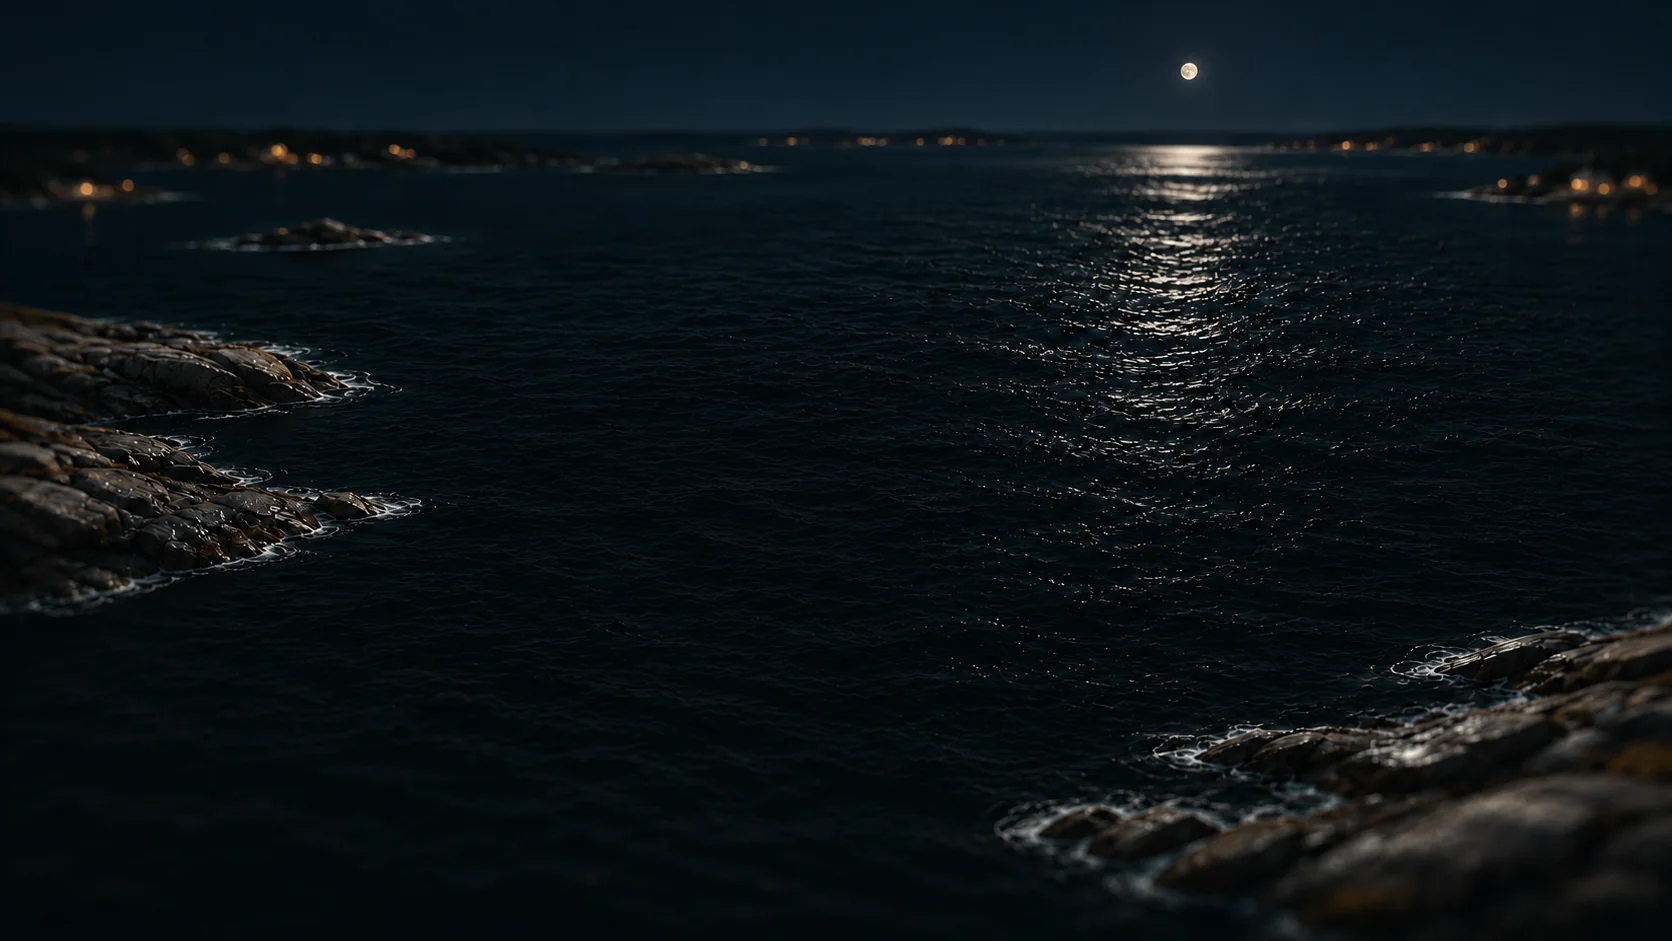
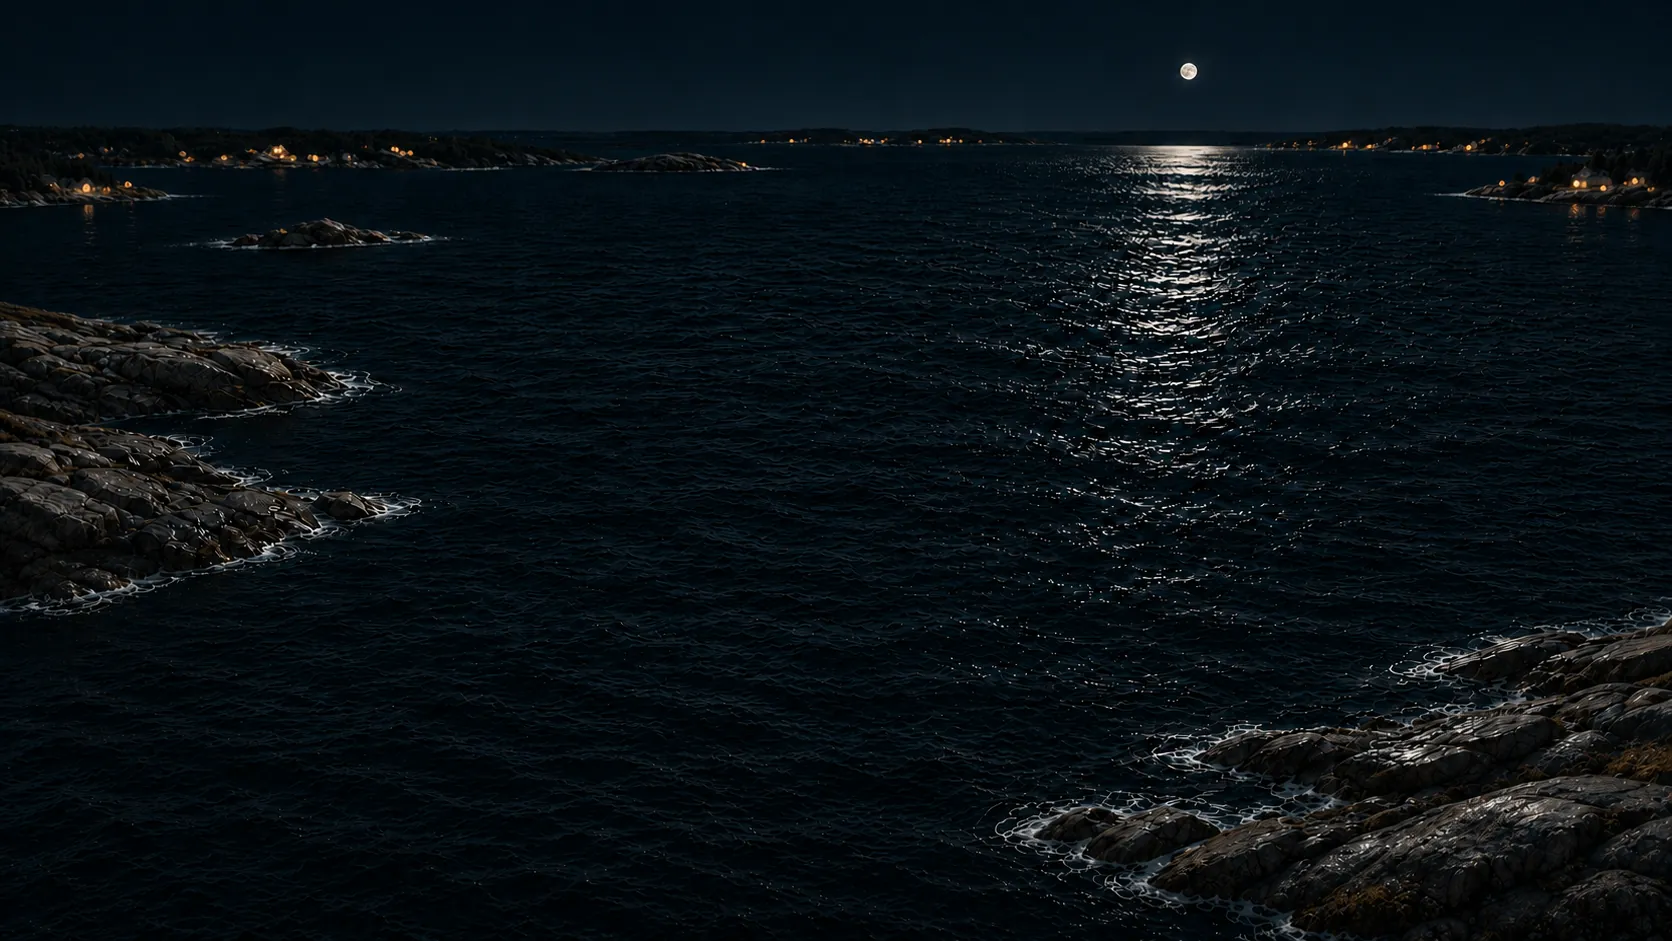
Zoomed out, the open water is the live moving 3D water and the whole picture racks focus live like the moor

diff --git a/bay.js b/bay.js
@@ -68,13 +68,15 @@ function makeWater(renderer, scene, sky, res) {
   const mat = new THREE.ShaderMaterial({
     uniforms, fog: true, side: THREE.DoubleSide, transparent: true, depthWrite: false,
     vertexShader: /* glsl */`
-      uniform mat4 textureMatrix; uniform float time;
+      uniform mat4 textureMatrix; uniform float time, sceneZoom;
       uniform vec4 swell[4]; uniform vec2 swellMotion[4];
       varying vec4 mirrorCoord; varying vec3 wp, swellNormal;
       #include <common>
       #include <fog_pars_vertex>
       void main() {
-        vec4 w = modelMatrix * vec4(position, 1.0);
+        float edge = clamp(max(abs(position.x), abs(position.y)) / 256.0, 0.0, 1.0);
+        float reach = 1.0 + (1.0 - sceneZoom) * 7.0 * pow(edge, 4.0);
+        vec4 w = modelMatrix * vec4(position.xy * reach, position.z, 1.0);
         vec2 baseXZ = w.xz;
         vec3 tx = vec3(1.0, 0.0, 0.0), tz = vec3(0.0, 0.0, 1.0);
         for (int i = 0; i < 4; i++) {
@@ -150,9 +152,16 @@ function makeWater(renderer, scene, sky, res) {
           float crestNoise = smoothstep(.34, .68, vnoise(wp.xz * vec2(2.7, 6.1) + vec2(time * .16, -time * .24)));
           float sideFade = exp(-pow((screenUv.x - .52) / .40, 2.0));
           float fineCrest = smoothstep(.45, .70, vnoise(wp.xz * vec2(5.0, 8.0) + vec2(time * .12, -time * .18)));
+          float crinkle = sin(wp.x * 2.7 + wp.z * 5.1 - time * 1.2
+                          + 2.0 * vnoise(wp.xz * vec2(.8, 1.2) + vec2(time * .08, 0.0)));
+          float littleCrests = pow(max(crinkle, 0.0), 10.0)
+                             * smoothstep(.25, .68, vnoise(wp.xz * vec2(2.2, 3.7) - vec2(0.0, time * .17)));
           float swellSheen = longCrest * fineCrest * sideFade * smoothstep(.30, .75, screenUv.y);
           float lowerSheen = pow(1.0 - screenUv.y, 1.2) * exp(-pow((screenUv.x - .20) / .65, 2.0));
-          vec3 col = waterColor + vec3(.002, .003, .004) * (1.0 - sceneZoom) * (1.0 - smoothstep(.35, .65, screenUv.y))
+          vec3 col = waterColor + (vec3(.001, .002, .003) + vec3(.006, .009, .011) * smoothstep(.25, .75, screenUv.y)
+                   - vec3(.003, .003, .003) * (1.0 - smoothstep(.30, .60, screenUv.y))) * (1.0 - sceneZoom)
+                   + vec3(.006, .007, .008) * fineCrest * (1.0 - sceneZoom)
+                   + vec3(.042, .048, .052) * littleCrests * (1.0 - sceneZoom)
                    + vec3(.0060, .0080, .0080) * (1.0 - step(.1, moonDive))
                    + vec3(.006, .007, .008) * longCrest * (1.0 - .65 * lowerSheen)
                    + vec3(.012, .012, .012) * swellSheen
@@ -198,9 +207,9 @@ function makeWater(renderer, scene, sky, res) {
           }
           col += warmTint * mix(warmWide, warmClose, sceneZoom);
           // Moonlight breaks into irregular soft flecks along moving crests.
-          float upper = smoothstep(.16, .52, screenUv.y);
-          float width = mix(.025, .070, smoothstep(.30, 1.0, screenUv.y));
-          float centre = mix(.69, mix(.50, .54, smoothstep(.30, 1.0, screenUv.y)), sceneZoom);
+          float upper = mix(smoothstep(.10, .45, screenUv.y), smoothstep(.16, .52, screenUv.y), sceneZoom);
+          float width = mix(mix(.070, .055, smoothstep(.30, 1.0, screenUv.y)), mix(.025, .070, smoothstep(.30, 1.0, screenUv.y)), sceneZoom);
+          float centre = mix(.705, mix(.50, .54, smoothstep(.30, 1.0, screenUv.y)), sceneZoom);
           float lane = exp(-pow((screenUv.x - centre) / width, 2.0));
           vec2 fp = mat2(.8, -.6, .6, .8) * wp.xz * vec2(6.0, 3.8);
           float facets = vnoise(fp + vec2(time * .9, -time * .6))
@@ -245,8 +254,17 @@ function makeWater(renderer, scene, sky, res) {
                         * (1.0 - smoothstep(.63, .83, screenUv.y)) * surfaceReflect;
           float moonStop = mix(1.0, smoothstep(lampScreen.y - .02, lampScreen.y + .14, screenUv.y),
                                smoothstep(.20, .60, tallScreen) * (1.0 - moonDive));
-          float zoomMoon = mix(.55, 1.0, sceneZoom);
+          float zoomMoon = mix(1.5 + 1.6 * smoothstep(.45, .90, screenUv.y), 1.0, sceneZoom);
           col += moonColor * lane * upper * fleck * crestGlint * topLight * .35 * moonProfile * midLift * moonStop * zoomMoon * (1.0 - .55 * moonDive);
+          if (sceneZoom < .98 && screenUv.y > .76) {
+            float horizonBand = 0.0;
+            float horizonSpark = moonSquiggle(gl_FragCoord.xy * vec2(.83, 1.0) + vec2(31.0, 7.0), time, horizonBand);
+            col += moonColor * lane * horizonSpark * (.18 + .32 * horizonBand)
+                 * smoothstep(.76, .87, screenUv.y) * (1.0 - sceneZoom);
+            float distantSheen = exp(-pow((screenUv.y - .81) / .065, 2.0));
+            col += moonColor * lane * distantSheen * (.025 + .12 * fineCrest)
+                 * (1.0 - sceneZoom);
+          }
           float farFlecks = smoothstep(.18, .70, screenUv.y)
                            * smoothstep(.34 + .02 * topThin + .16 * moonDive,
                                         .58 + .02 * topThin + .15 * moonDive, facets) * (.25 + .75 * moonCrest);
@@ -546,22 +564,32 @@ export function createBay(canvas) {
   composer.addPass(new RenderPass(scene, camera));
   const focus = new ShaderPass({
     uniforms: {
-      tDiffuse: { value: null }, tDepth: { value: null },
+      tDiffuse: { value: null }, tDepth: { value: null }, photoDepth: { value: null }, photoActive: { value: 0 }, sceneZoom: { value: 1 },
       focusUv: { value: new THREE.Vector2(.5, .4) }, resolution: { value: new THREE.Vector2(1, 1) },
       nearClip: { value: camera.near }, farClip: { value: camera.far }, amount: { value: 1 },
     },
     vertexShader: `varying vec2 vUv; void main() { vUv = uv; gl_Position = projectionMatrix * modelViewMatrix * vec4(position, 1.0); }`,
-    fragmentShader: `uniform sampler2D tDiffuse, tDepth; uniform vec2 focusUv, resolution;
-      uniform float nearClip, farClip, amount; varying vec2 vUv;
+    fragmentShader: `uniform sampler2D tDiffuse, tDepth, photoDepth; uniform vec2 focusUv, resolution;
+      uniform float nearClip, farClip, amount, photoActive, sceneZoom; varying vec2 vUv;
       float linearDepth(float z) { return nearClip * farClip / (farClip - z * (farClip - nearClip)); }
       void main() {
         vec3 sharp = texture2D(tDiffuse, vUv).rgb;
-        float here = linearDepth(texture2D(tDepth, vUv).r);
-        float pointed = linearDepth(texture2D(tDepth, focusUv).r);
-        float byDepth = smoothstep(.13, .95, abs(log2(max(here, 1.0) / max(pointed, 1.0))));
+        float byDepth;
+        if (photoActive > .5) {
+          float scale = mix(1.0, 3.1, smoothstep(0.0, 1.0, sceneZoom));
+          vec2 hereUv = (vUv - .5) / scale + .5;
+          vec2 focusPhotoUv = (focusUv - .5) / scale + .5;
+          float here = texture2D(photoDepth, hereUv).r;
+          float pointed = texture2D(photoDepth, focusPhotoUv).r;
+          byDepth = smoothstep(.045, .30, abs(here - pointed));
+        } else {
+          float here = linearDepth(texture2D(tDepth, vUv).r);
+          float pointed = linearDepth(texture2D(tDepth, focusUv).r);
+          byDepth = smoothstep(.13, .95, abs(log2(max(here, 1.0) / max(pointed, 1.0))));
+        }
         float byHeight = smoothstep(.07, .34, abs(vUv.y - focusUv.y));
         float blur = amount * max(byDepth * .9, byHeight * .85);
-        vec2 px = vec2(1.0) / resolution * blur * 6.0;
+        vec2 px = vec2(1.0) / resolution * blur * mix(10.0, 6.0, sceneZoom);
         float turn = fract(sin(dot(gl_FragCoord.xy, vec2(12.9898, 78.233))) * 43758.5453) * 6.2831853;
         vec3 soft = vec3(0.0);
         for (int i = 0; i < 24; i++) {
@@ -578,58 +606,47 @@ export function createBay(canvas) {
     focus.uniforms.tDepth.value = read.depthTexture;
     renderFocus(r, write, read, dt, mask);
   };
-  composer.addPass(focus);
-  // The distant shore and rocks are a still tilt-shift plate. Its water is a
-  // colour reference over the moving mesh, while the boat and lamp stay 3D.
+  // Only the still shore, rocks and sky come from the sharp plate; every open
+  // water pixel remains the live moving mesh. The focus pass follows it.
   const plate = new ShaderPass({
-    uniforms: { tDiffuse: { value: null }, scenery: { value: null }, depthMap: { value: null }, zoom: { value: 1 }, aspect: { value: 1.777 } },
+    uniforms: { tDiffuse: { value: null }, scenery: { value: null }, stillMask: { value: null }, zoom: { value: 1 }, aspect: { value: 1.777 } },
     vertexShader: `varying vec2 vUv; void main() { vUv = uv; gl_Position = projectionMatrix * modelViewMatrix * vec4(position, 1.0); }`,
-    fragmentShader: `uniform sampler2D tDiffuse, scenery, depthMap; uniform float zoom, aspect; varying vec2 vUv;
-      float rockAt(vec2 p) {
-        float y = 1.0 - p.y;
-        float d = texture2D(depthMap, p).r - max(0.0, .78 * y - .08);
-        float t = mix(.018, .085, smoothstep(.16, .65, y));
-        return smoothstep(t, t + .022, d);
-      }
+    fragmentShader: `uniform sampler2D tDiffuse, scenery, stillMask; uniform float zoom, aspect; varying vec2 vUv;
       void main() {
         vec3 live = texture2D(tDiffuse, vUv).rgb;
         float scale = mix(1.0, 3.1, smoothstep(0.0, 1.0, zoom));
         vec2 uv = (vUv - vec2(.50, .50)) / scale + vec2(.50, .50);
         if (uv.x < 0.0 || uv.x > 1.0 || uv.y < 0.0 || uv.y > 1.0) { gl_FragColor = vec4(live, 1.0); return; }
         float y = 1.0 - uv.y;
-        float shore = rockAt(uv);
-        float sky = 1.0 - smoothstep(.135, .19, y);
-        float still = max(sky, shore);
-        // The boat and its live reflection have priority over the photographed water.
-        float boat = exp(-pow(length((uv - vec2(.50, .49)) * vec2(1.0, 1.5)) / .115, 2.0)) * smoothstep(.44, .50, y);
-        float waterMix = mix(.66, 1.0, 1.0 - smoothstep(mix(.50, .24, smoothstep(.50, 1.2, aspect)),
-                                                              mix(.65, .39, smoothstep(.50, 1.2, aspect)), y)) * (1.0 - boat * .83);
-        float nearRock = max(max(rockAt(uv + vec2(.018, 0.0)), rockAt(uv - vec2(.018, 0.0))),
-                             max(rockAt(uv + vec2(0.0, .018)), rockAt(uv - vec2(0.0, .018))));
-        waterMix = mix(waterMix, .95, nearRock * .70);
+        float still = texture2D(stillMask, uv).r;
         float fade = 1.0 - smoothstep(.50, .94, zoom);
         vec3 photo = pow(texture2D(scenery, uv).rgb, vec3(.80));
         float crop = min(1.0, aspect / 1.777);
         vec2 skyUv = vec2(mix(.70, .50, crop) + (uv.x - .5) * crop, uv.y);
         vec3 photoSky = pow(texture2D(scenery, skyUv).rgb, vec3(.80));
         photo = mix(photo, photoSky, 1.0 - smoothstep(.13, .20, y));
-        gl_FragColor = vec4(mix(live, photo, mix(waterMix, 1.0, still) * fade), 1.0);
+        gl_FragColor = vec4(mix(live, photo, still * fade), 1.0);
       }`,
   });
   plate.enabled = false;
+  let plateReady = false;
   const plateLoader = new THREE.TextureLoader();
   Promise.all([
     plateLoader.loadAsync('models/web/zoomout_a_plate.webp'),
     plateLoader.loadAsync('models/web/zoomout_a_depth.jpg'),
-  ]).then(([scenery, depthMap]) => {
+    plateLoader.loadAsync('models/web/zoomout_a_mask.png'),
+  ]).then(([scenery, depthMap, stillMask]) => {
     scenery.colorSpace = THREE.SRGBColorSpace;
     scenery.minFilter = THREE.LinearFilter;
     depthMap.minFilter = THREE.LinearFilter;
+    stillMask.minFilter = THREE.LinearFilter;
     plate.uniforms.scenery.value = scenery;
-    plate.uniforms.depthMap.value = depthMap;
-    plate.enabled = true;
+    plate.uniforms.stillMask.value = stillMask;
+    focus.uniforms.photoDepth.value = depthMap;
+    plateReady = true;
   }).catch(e => console.warn('Zoom-out scenery unavailable', e));
   composer.addPass(plate);
+  composer.addPass(focus);
   const bloom = new UnrealBloomPass(new THREE.Vector2(256, 256), .22, .25, .91); composer.addPass(bloom);
   composer.addPass(new OutputPass());
   const grain = new ShaderPass({
@@ -647,7 +664,9 @@ export function createBay(canvas) {
   const focusAt = new THREE.Vector2(.5, .4);
   let pointerActive = false;
   // as on the moor, ordinary pointer movement only racks focus
-  addEventListener('pointermove', e => { if (e.pointerType === 'mouse') { pointerActive = true; look.x = e.clientX / innerWidth * 2 - 1; look.y = e.clientY / innerHeight * 2 - 1; } });
+  const rackTo = e => { pointerActive = true; look.x = e.clientX / innerWidth * 2 - 1; look.y = e.clientY / innerHeight * 2 - 1; };
+  addEventListener('pointermove', rackTo);
+  addEventListener('pointerdown', rackTo);
   document.addEventListener('mouseleave', () => { pointerActive = false; });
   const st = { dive: 0, floor: 0, fade: 0, zoom: 0, zoomTarget: 0 };
   const tgt = new THREE.Vector3(0, HANG, 0), lampPos = new THREE.Vector3(), viewAim = new THREE.Vector3();
@@ -671,7 +690,10 @@ export function createBay(canvas) {
     st.zoom += ((d > 0 ? 1 : st.zoomTarget) - st.zoom) * (1 - Math.exp(-dt * 2.3));
     st.zoom = Math.max(0, Math.min(1, st.zoom));
     const zoom = smooth(0, 1, st.zoom);
+    plate.enabled = plateReady && zoom < .94;
     plate.uniforms.zoom.value = zoom;
+    focus.uniforms.photoActive.value = plate.enabled ? 1 : 0;
+    focus.uniforms.sceneZoom.value = zoom;
     moonDir.set(mix(-.35, -.62, zoom), mix(.035, .42, zoom), mix(-.90, -.66, zoom)).normalize();
     wu.moonDir.value.copy(moonDir);
     wu.sceneZoom.value = zoom;
@@ -743,19 +765,20 @@ export function createBay(canvas) {
 
     // the camera
     const still = matchMedia('(prefers-reduced-motion: reduce)').matches;
-    const pointerEase = 1 - Math.exp(-dt * 4);
-    const wantedFocusX = pointerActive ? (look.x + 1) * .5 : .5 + Math.sin(time * .07) * .18;
-    const wantedFocusY = pointerActive ? (1 - look.y) * .5 : .4 + Math.sin(time * .05 + 2) * .12;
-    focusAt.x += (wantedFocusX - focusAt.x) * pointerEase * .7;
-    focusAt.y += (wantedFocusY - focusAt.y) * pointerEase * .7;
+    const pointerEase = 1 - Math.exp(-dt * 8);
+    const wantedFocusX = pointerActive ? (look.x + 1) * .5 : .46;
+    const wantedFocusY = pointerActive ? (1 - look.y) * .5 : .52;
+    focusAt.x += (wantedFocusX - focusAt.x) * pointerEase;
+    focusAt.y += (wantedFocusY - focusAt.y) * pointerEase;
     focus.uniforms.focusUv.value.copy(focusAt);
     const surface = 1 - smooth(0, .18, d);
-    focus.uniforms.amount.value = surface * (d > 0 ? .30 : pointerActive ? 1 : .30);
+    focus.uniforms.amount.value = surface * (d > 0 ? .30 : pointerActive ? 1 : mix(1, .30, zoom));
     const yaw = Math.PI / 4 + d * .9;
-    const pitch = mix(mix(.14, .54, zoom), .3, smooth(.3, .6, d)) + mix(0, .55, smooth(.2, 1, fl));
-    const dist = mix(mix(135, 92, zoom), 26, smooth(0, .55, d)) * mix(1, .3, smooth(0, 1, fl));
     // a tall screen keeps the same width of view as a wide one
     const fv = mix(mix(27, 16, zoom), 34, smooth(0, .55, d)) * Math.PI / 180;
+    const platePitch = Math.atan(.70 * Math.tan(fv / 2) * Math.max(1, 1.2 / camera.aspect));
+    const pitch = mix(mix(platePitch, .54, zoom), .3, smooth(.3, .6, d)) + mix(0, .55, smooth(.2, 1, fl));
+    const dist = mix(mix(135, 92, zoom), 26, smooth(0, .55, d)) * mix(1, .3, smooth(0, 1, fl));
     camera.fov = 2 * Math.atan(Math.tan(fv / 2) * Math.max(1, 1.2 / camera.aspect)) * 180 / Math.PI; camera.updateProjectionMatrix();
     const aim = box && fl > 0 ? lampPos.clone().lerp(box.position, .55 * smooth(0, 1, fl)) : lampPos;
     if (surface > .999) tgt.copy(lampPos);
@@ -785,5 +808,5 @@ export function createBay(canvas) {
   };
   // the lamp on screen, in CSS pixels, for the point and its ping
   const screen = () => { const p = lampPos.clone().project(camera); return { x: (p.x * .5 + .5) * W, y: (-p.y * .5 + .5) * H }; };
-  return { st, look, render, screen, ready, renderer, scene, camera, get box() { return box; } };
+  return { st, look, render, screen, ready, renderer, scene, camera, get focusUv() { return focusAt.clone(); }, get box() { return box; } };
 }

diff --git a/index.html b/index.html
@@ -104,7 +104,7 @@ canvas { position: fixed; inset: 0; width: 100%; height: 100%; display: block; }
   // ---- the bay in 3D: loaded once the way in is clicked, drawn under this canvas once it shows ----
   let bay = null, bayLoad = null;
   const q0 = new URLSearchParams(location.search);
-  const loadBay = () => bayLoad || (bayLoad = import('./bay.js?v=' + (q0.get('v') || 'b34')).then(m => { bay = m.createBay($('bay')); window.observerBay = bay; return bay; }).catch(e => { console.warn('bay', e); return null; }));
+  const loadBay = () => bayLoad || (bayLoad = import('./bay.js?v=' + (q0.get('v') || 'b35')).then(m => { bay = m.createBay($('bay')); window.observerBay = bay; return bay; }).catch(e => { console.warn('bay', e); return null; }));
   const P = { x: 0, y: 0 };   // the point on screen this frame
   const wait = ms => new Promise(r => setTimeout(r, reduce ? Math.min(ms, 600) : ms));
   let skipping = false;
